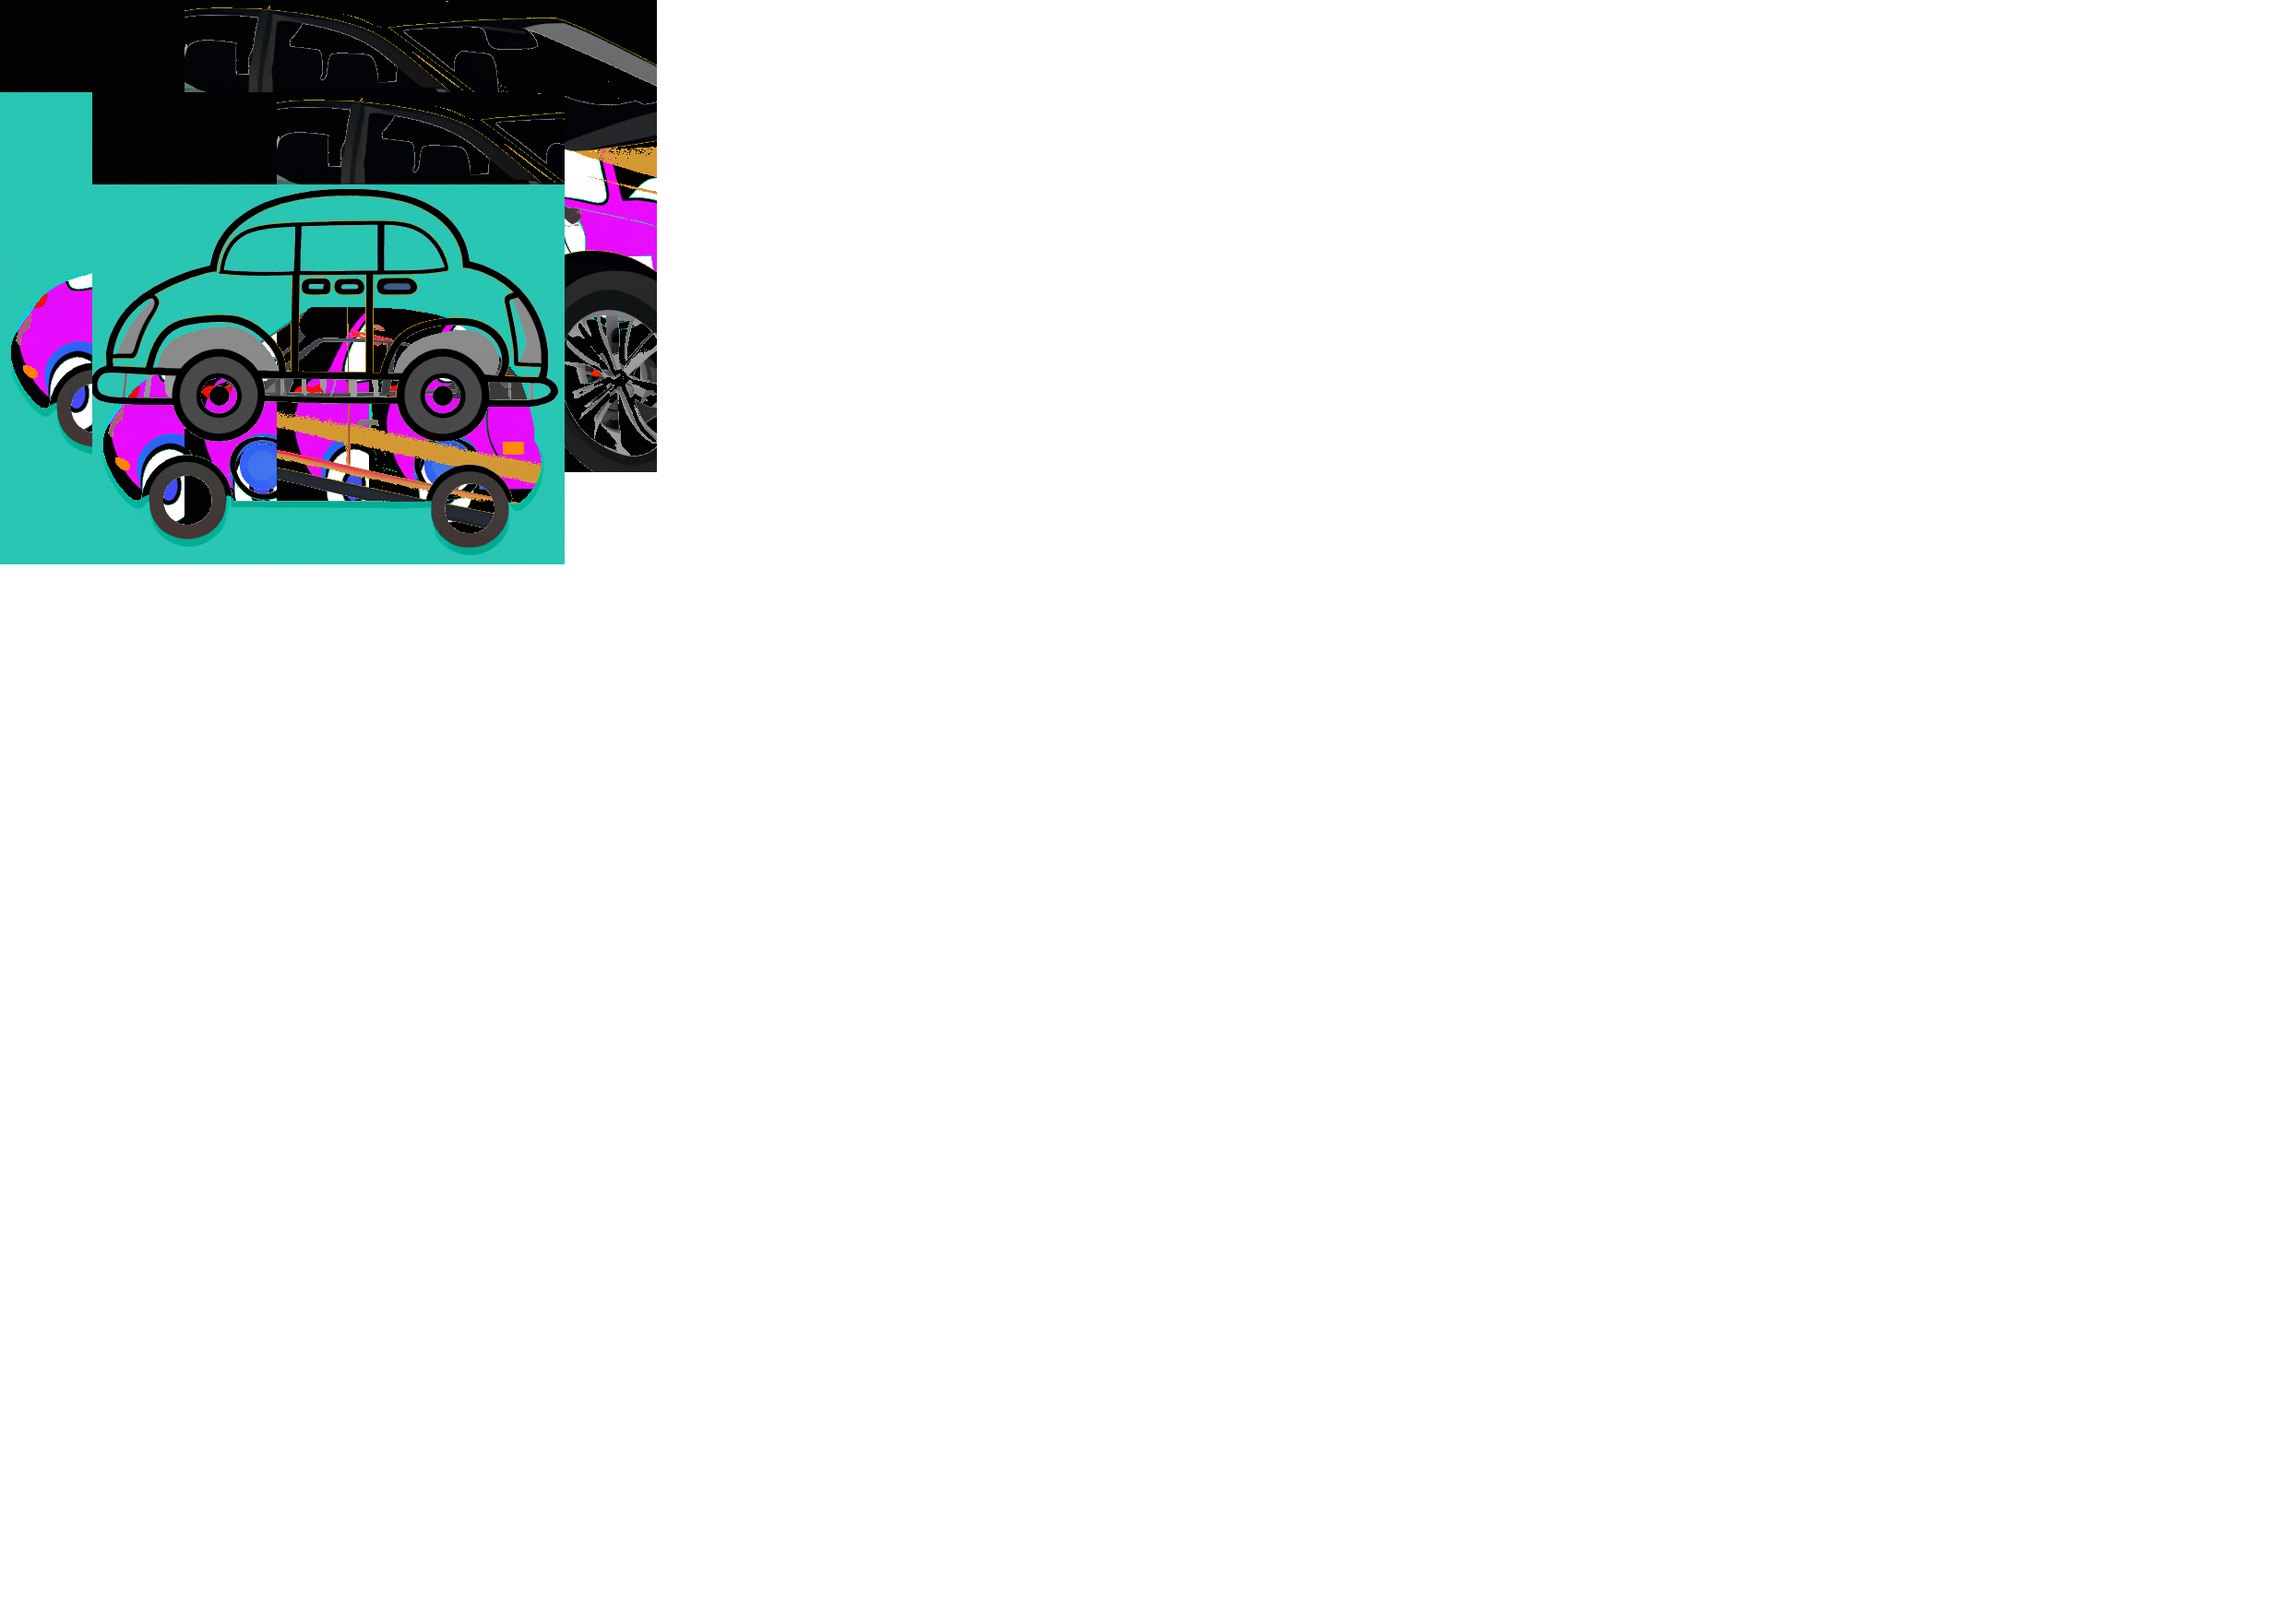
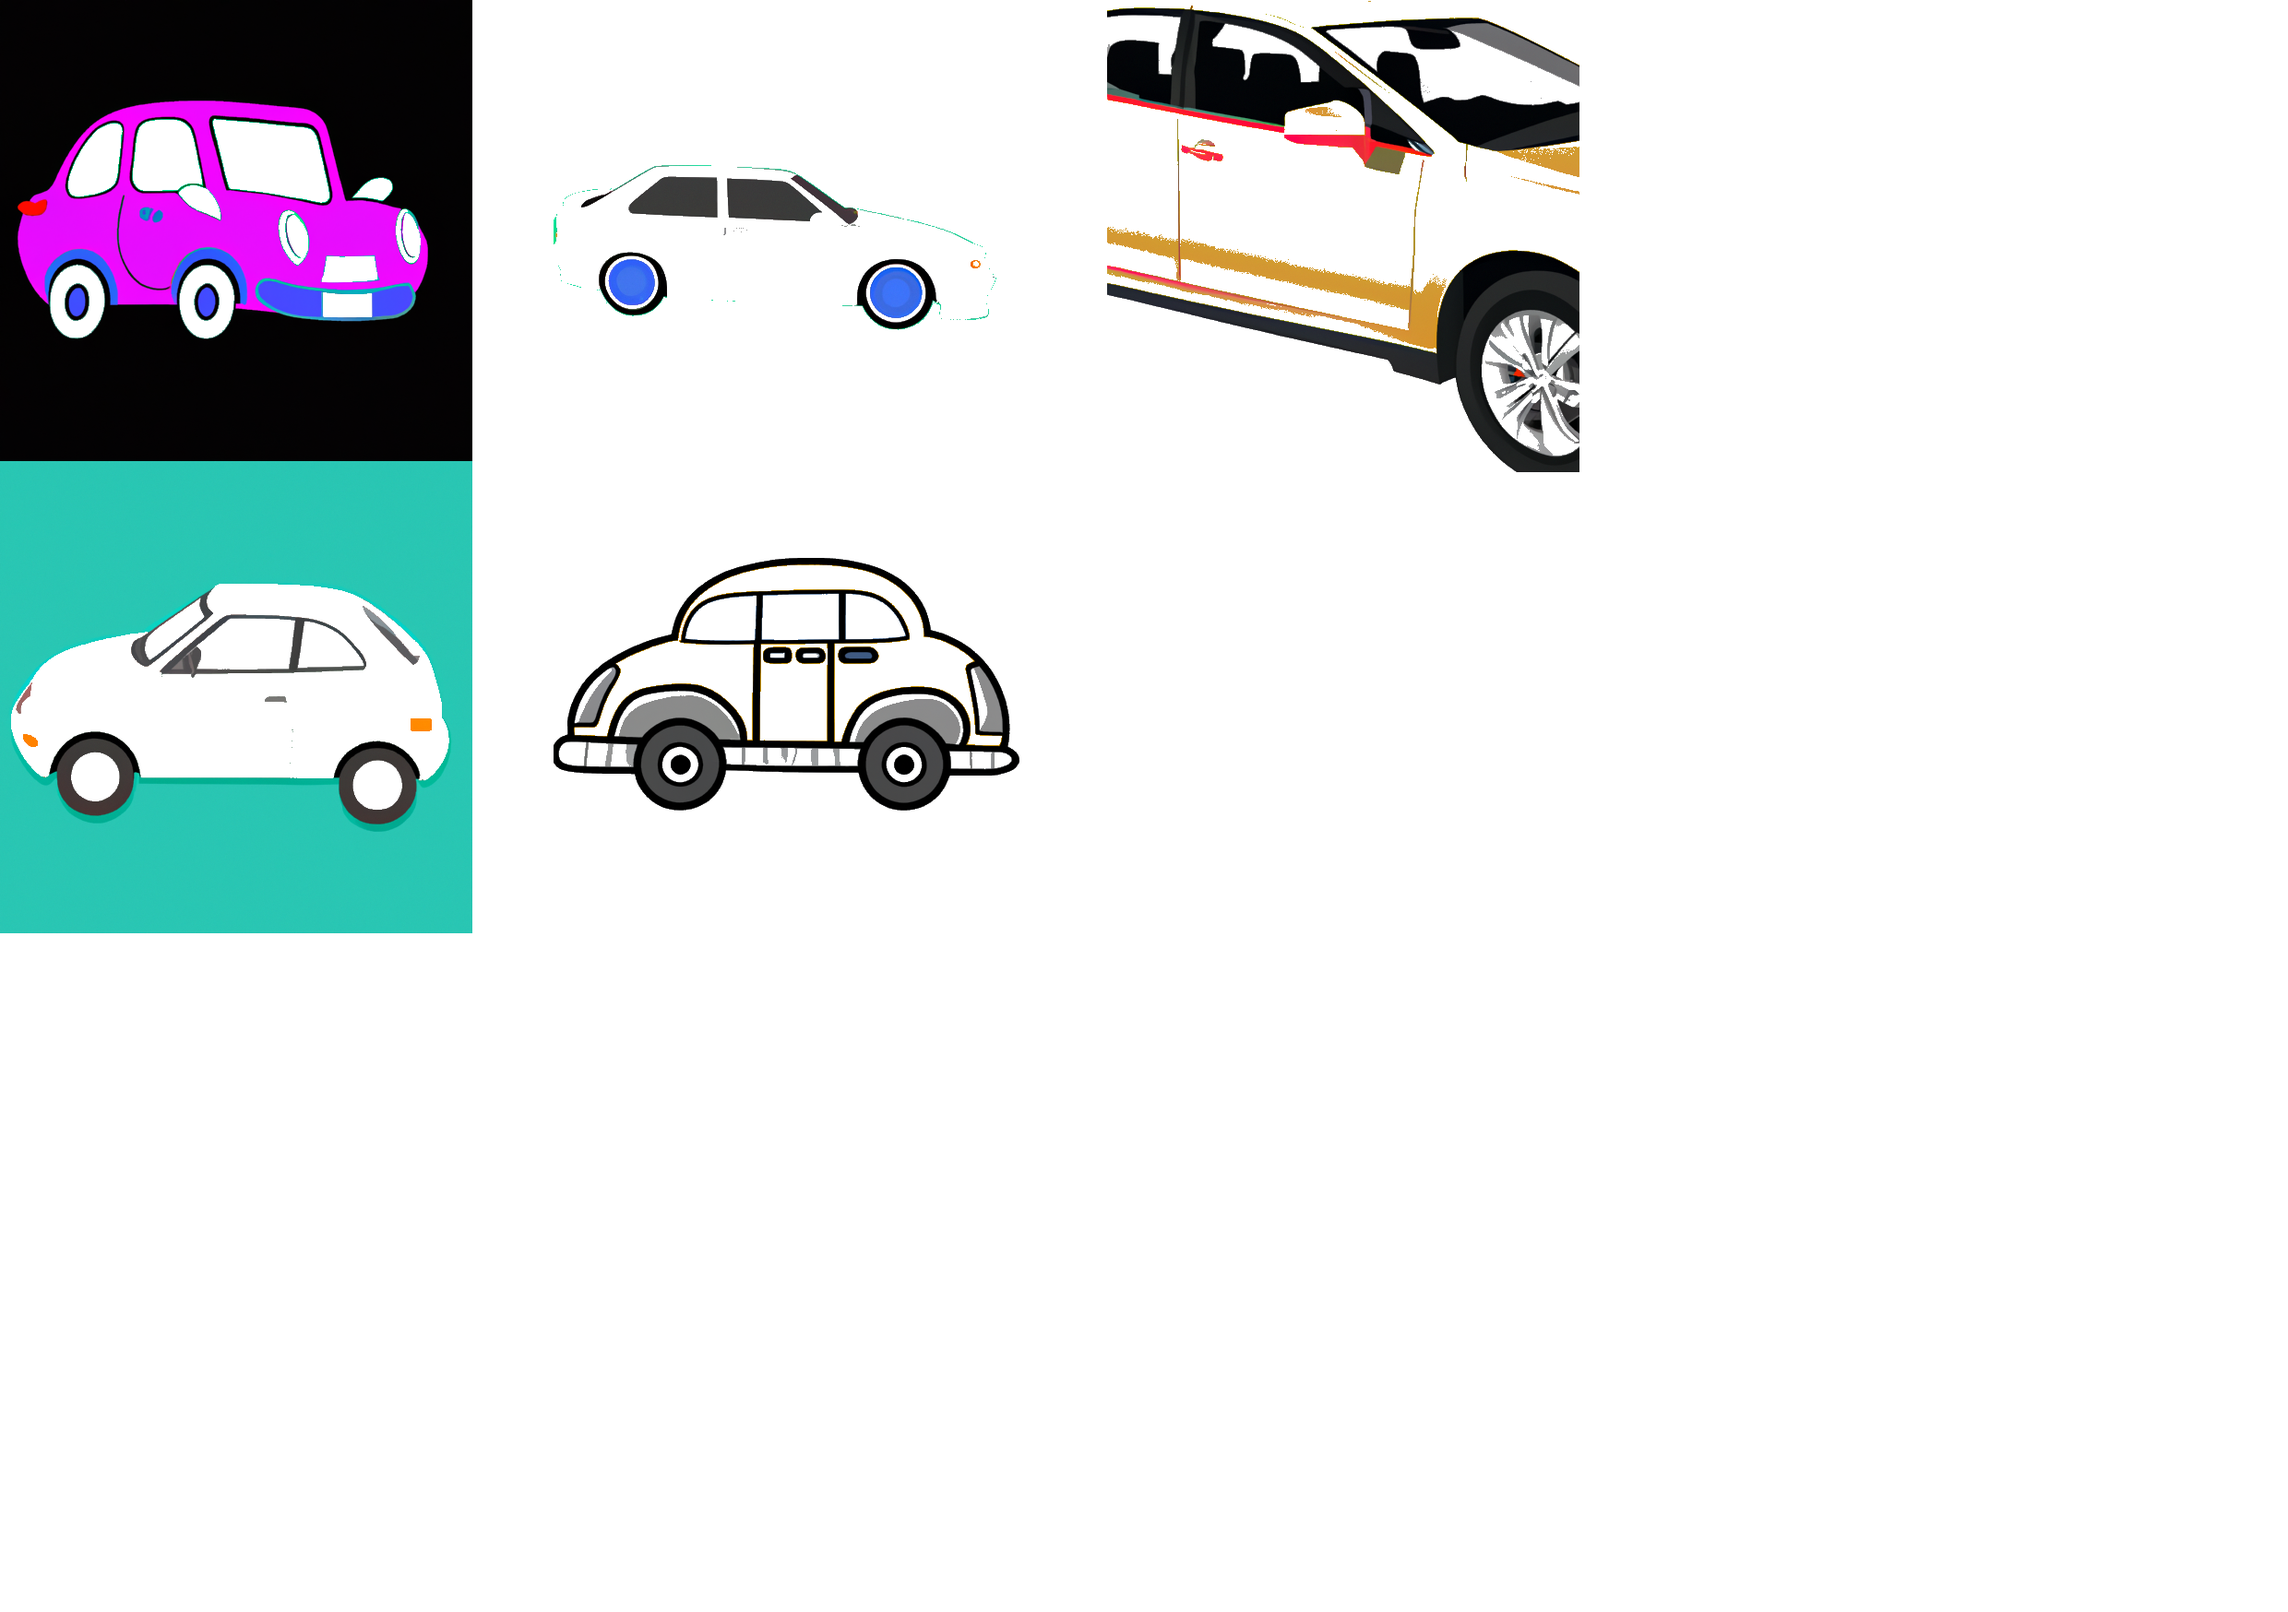
commit

diff --git a/gpt_post.py b/gpt_post.py
@@ -11,9 +11,9 @@ class GPT():
         self.instruction_set = ""
 
     #감정에 어울리는 사진을 고른 후, 쉼표로 구분해서 출력해주는 함수
-    def select_pictures(self):
-        content = "너는 뛰어난 미술치료사야. 미술치료 콜라주에 필요한 사진을 선정해야 하는데, 네가 콜라주에 사용할 사진을\
-            20장 선정해야 해. 의뢰자는 현재 우울한 감정을 느끼고 있어. 이 의뢰자의 미술치료에 도움을 줄 만한 콜라주 재료\
+    def select_pictures(self, feeling):
+        content = f"너는 뛰어난 미술치료사야. 미술치료 콜라주에 필요한 사진을 선정해야 하는데, 네가 콜라주에 사용할 사진을\
+            20장 선정해야 해. 의뢰자는 현재 {feeling} 감정을 느끼고 있어. 이 의뢰자의 미술치료에 도움을 줄 만한 콜라주 재료\
                 사물들을 쉼표로 구분해서 20개 나열해 줘. 단어들은 영어로 작성해 줘.\
                     [예시]\
                         car, butterfly, flower, bee, T-shirts, puppy, cat"
@@ -147,7 +147,10 @@ class GPT():
         arr = ["black_bg.png", "car_mint.png", "car.png", "mint.png", "white_bg.png"]
         for i in range(len(arr)):
             pic = arr[i]
-            col(pic, (i % 3) * 300, (i//3) * 300)
+            print(pic)
+            r = i // 3
+            c = i % 3
+            col(pic, c * 600, r * 500)
 
 if __name__ == "__main__":
     gpt = GPT()

diff --git a/aidoctor/views.py b/aidoctor/views.py
@@ -1,6 +1,23 @@
 from django.shortcuts import render
 from django.http import HttpResponse, JsonResponse
+from gpt_post import GPT
 # Create your views here.
+
+
+from rest_framework.renderers import JSONRenderer
+
+
+feeling_dict = {1:"기쁨", 2: "슬픔", 3:"분노", 4:"행복", 5:"불안", 6:"두려움"}
+gpt = GPT()
 
 def index(request):
     return JsonResponse({"data":"test data"})
+
+def pic_select(request, feeling):
+    feeling_word = feeling_dict[feeling]
+    #단어 쉼표로 구분해서 받기
+    selected_str = gpt.select_pictures(feeling_word)
+    gpt.words_to_list(selected_str)
+    #for문 써서 딕셔너리 형태로 만들기 사물이름 - 사진 key-value로 전송
+    JSONRenderer().render(#여기다가 딕셔너리 넣기#)
+

diff --git a/cv.py b/cv.py
@@ -15,7 +15,7 @@ def col(src2_path, x, y):
 
     
     rows, cols, channels = src2.shape #로고파일 픽셀값 저장
-    roi = src1[0:rows,0:cols] #로고파일 필셀값을 관심영역(ROI)으로 저장함.
+    roi = src1[y:rows + y, x:cols + x] #로고파일 필셀값을 관심영역(ROI)으로 저장함.
     #roi = src1[50:rows+50,50:cols+50] #로고파일 필셀값을 관심영역(ROI)으로 저장함.
     
     gray = cv2.cvtColor(src2, cv2.COLOR_BGR2GRAY) #로고파일의 색상을 그레이로 변경
@@ -45,4 +45,4 @@ def col(src2_path, x, y):
     '''
 
 if __name__ == "__main__":
-    col("", 50, 50)
+    col("black_bg.png", 500, 50)

diff --git a/aidoctor/serializers.py b/aidoctor/serializers.py
@@ -1,5 +1,5 @@
 from rest_framework import serializers 
-from .models import Music
+from .models import Question
 class musicserializer(serializers.ModelSerializer) : 
     class Meta :
         model = musicserializer      # Question 모델 사용 

diff --git a/aidoctor/urls.py b/aidoctor/urls.py
@@ -4,4 +4,5 @@ from . import views
 
 urlpatterns = [
     path('', views.index),
+    path('<int:feeling>/', views.picture_selection),
 ]
